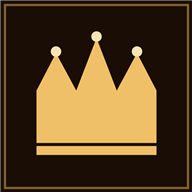
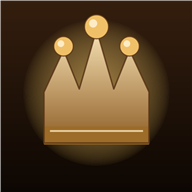
style: novo icone do app com coroa em degrade dourado e joias

diff --git a/sw.js b/sw.js
@@ -1,4 +1,4 @@
-const CACHE = 'cortesia-v1';
+const CACHE = 'cortesia-v2';
 const ASSETS = [
   './',
   './index.html',
